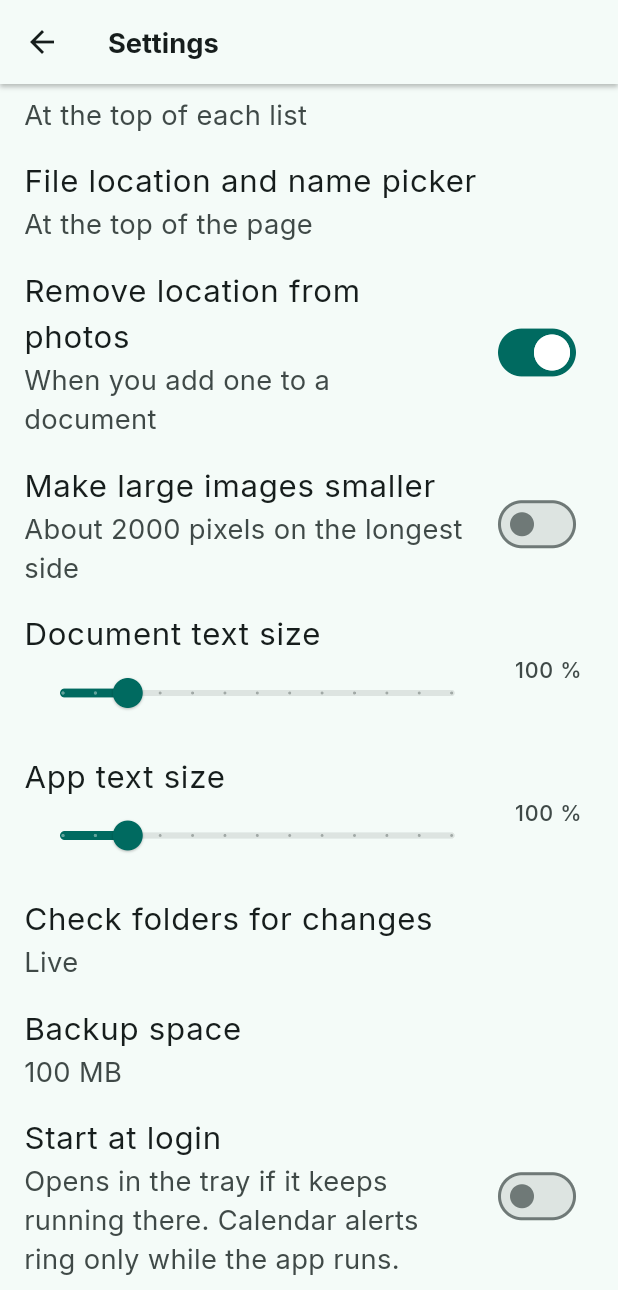
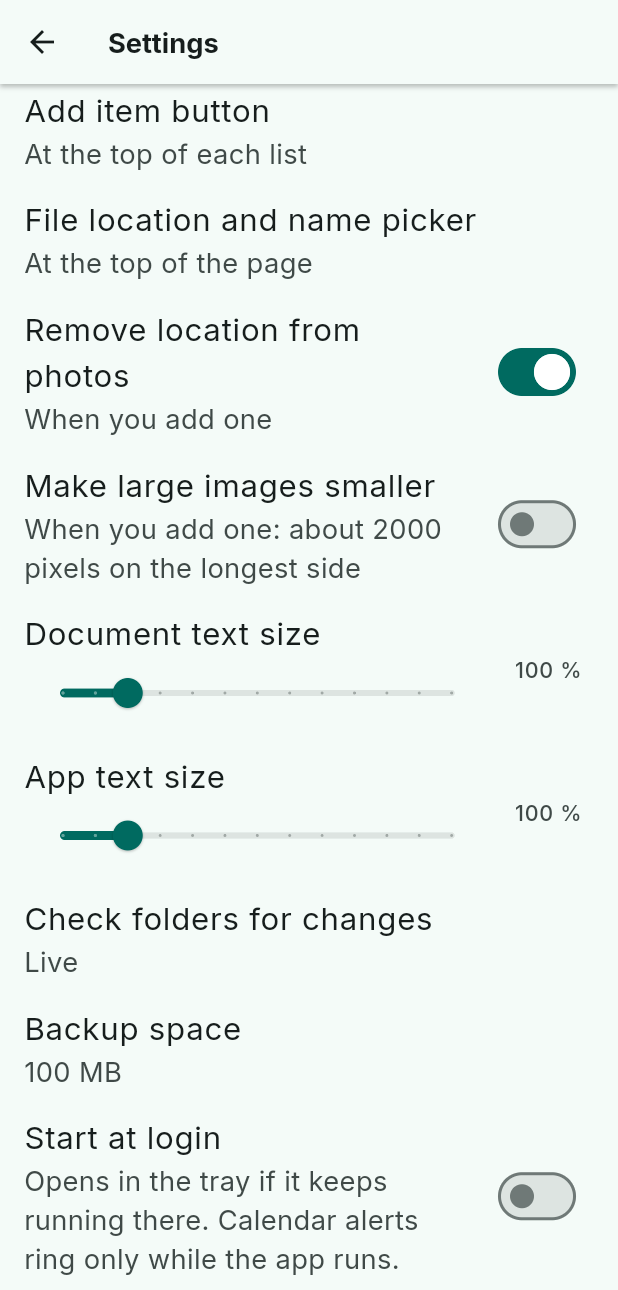
One rule for which files show; fresher image texts
Backups and backup pruning now ask the same rule as the folder listing,
so pictures kept for documents never show there. The image settings say
they apply to every picture you add. README, coding standards and known
limitations name images.

Changed region(s): [[0.0307, 0.062, 0.7686, 0.3411], [0.0307, 0.4031, 0.7379, 0.4651], [0.7994, 0.2481, 0.9531, 0.3101]]

diff --git a/core/lib/src/place/bounded_place.dart b/core/lib/src/place/bounded_place.dart
@@ -4,13 +4,12 @@ import '../changes/live_changes.dart';
 import '../storage/bounded_store.dart';
 import '../storage/closing_store.dart';
 import '../storage/file_store.dart';
-import '../storage/rel_path.dart';
+import 'file_bounds.dart';
 
 /// What the app may touch in one folder, its files and their changes,
-/// bounded alike by one [handles] rule, so no other file is listed,
-/// written, deleted or followed; and closed alike by [close]. Files the
-/// app keeps apart (e.g. the files its documents link) are reached only
-/// through [apart].
+/// bounded alike by one rule ([FileBounds.shows]), so no other file is
+/// listed, written, deleted or followed; and closed alike by [close].
+/// Files the app keeps apart are reached only through [apart].
 ///
 /// Sits between a plugin's raw access to the folder and the plugin's rules
 /// on top; see `RawFolder`.
@@ -18,19 +17,26 @@ final class BoundedPlace {
   factory BoundedPlace(
     FileStore files,
     LiveChanges? live, {
-    required bool Function(RelPath file) handles,
-    required bool Function(RelPath path) keptApart,
+    required FileBounds bounds,
     required Duration Function() checkEvery,
   }) {
     final gate = ClosingStore(files);
-    bool counts(RelPath file) => handles(file) && !keptApart(file);
     return BoundedPlace._(
       gate,
-      BoundedStore(gate, handles: counts, enters: (f) => !keptApart(f)),
-      BoundedStore(gate, handles: keptApart),
+      BoundedStore(
+        gate,
+        handles: bounds.shows,
+        enters: (folder) => !bounds.keptApart(folder),
+      ),
+      BoundedStore(gate, handles: bounds.keptApart),
       live == null
           ? null
-          : BoundedChanges(live, gate, counts: counts, checkEvery: checkEvery),
+          : BoundedChanges(
+              live,
+              gate,
+              counts: bounds.shows,
+              checkEvery: checkEvery,
+            ),
     );
   }
 
@@ -42,10 +48,8 @@ final class BoundedPlace {
   /// apart.
   final FileStore files;
 
-  /// The files kept apart, by the `keptApart` rule handed in from above
-  /// (true for a kept folder and all inside it): listed, created and
-  /// deleted only there, read like any file; never followed. Core never
-  /// knows what they are.
+  /// The files kept apart ([FileBounds.keptApart]): listed, created and
+  /// deleted only there, read like any file; never followed.
   final FileStore apart;
 
   /// See [BoundedChanges]; `null` where the folder can't be followed live.

diff --git a/folders/lib/src/open_folders/folder_services.dart b/folders/lib/src/open_folders/folder_services.dart
@@ -48,16 +48,15 @@ final class FolderServices {
 }
 
 /// The services of a folder on [raw], its plugin's raw access to it, whose
-/// files tell [reach] how each access went, bounded to the files the app
-/// [handles] and the marks, with the files [keptApart] reached on their
+/// files tell [reach] how each access went, bounded to the files [bounds]
+/// shows and the marks, with the files it keeps apart reached on their
 /// own. Each write, the plugin's own included, is told to [wrote], but
 /// those kept apart, which no screen shows. A folder that is gone is
 /// checked every [checkEvery] whether it is back.
 FolderServices folderServices(
   RawFolder raw, {
   required FolderReach reach,
-  required bool Function(RelPath file) handles,
-  required bool Function(RelPath path) keptApart,
+  required FileBounds bounds,
   required String backupsPath,
   required String deviceId,
   required Duration Function() checkEvery,
@@ -65,15 +64,18 @@ FolderServices folderServices(
 }) {
   // Below the bound: a write it refuses is never told.
   void told(Set<RelPath> paths) {
-    final shown = {...paths.where((path) => !keptApart(path))};
+    final shown = {...paths.where((path) => !bounds.keptApart(path))};
     if (shown.isNotEmpty) wrote(shown);
   }
 
   final bounded = BoundedPlace(
     WriteReportingStore(ReachReportingStore(raw.files, reach), told),
     raw.changes,
-    handles: (file) => handles(file) || FileMarks.files.includesFile(file),
-    keptApart: keptApart,
+    bounds: FileBounds(
+      handles: (file) =>
+          bounds.handles(file) || FileMarks.files.includesFile(file),
+      keptApart: bounds.keptApart,
+    ),
     checkEvery: checkEvery,
   );
   final open = raw.open(bounded);

diff --git a/app/test/images/document_images_hidden_test.dart b/app/test/images/document_images_hidden_test.dart
@@ -1,0 +1,43 @@
+import 'dart:io';
+
+import 'package:flutter_riverpod/flutter_riverpod.dart';
+import 'package:flutter_test/flutter_test.dart';
+import 'package:truce_editor/folders/open_folders_wiring.dart';
+import 'package:truce_test_support/truce_test_support.dart' show onePixelPng;
+
+import '../support.dart';
+
+/// Pictures added to documents live in the folder's own store; now that
+/// pictures show as files, they still never list as files of their own.
+void main() {
+  test("a document's pictures never list as image files", () async {
+    final dir = tempFolder();
+    File('${dir.path}/note.md').writeAsStringSync('![](document-images/x)\n');
+    File('${dir.path}/photo.png').writeAsBytesSync(onePixelPng);
+    Directory('${dir.path}/document-images').createSync();
+    File('${dir.path}/document-images/img-0123456789abcdef.png')
+        .writeAsBytesSync(onePixelPng);
+    final services = servicesFor(folderAt(dir));
+
+    final scan = (await services.scanner.scan()).value;
+
+    expect(
+      {for (final file in scan.files) file.path.value},
+      {'note.md', 'photo.png'},
+    );
+    expect(scan.subfolders, isNot(contains(path('document-images'))));
+  });
+
+  test("a document's pictures are not shown files, so stay out of Backups "
+      'and their space', () {
+    final container = ProviderContainer();
+    addTearDown(container.dispose);
+    final bounds = container.read(fileBoundsProvider);
+
+    expect(bounds.shows(path('photo.png')), isTrue);
+    expect(
+      bounds.shows(path('document-images/img-0123456789abcdef.png')),
+      isFalse,
+    );
+  });
+}

diff --git a/app/lib/folders/open_folders_wiring.dart b/app/lib/folders/open_folders_wiring.dart
@@ -18,14 +18,24 @@ final appWritesProvider = Provider<AppWrites>((ref) {
   return writes;
 });
 
+/// Which files of each folder the app touches and shows: the types it
+/// handles, but not the files it keeps apart. The one rule for listing,
+/// following and backups.
+final fileBoundsProvider = Provider<FileBounds>((ref) {
+  final detector = ref.watch(fileTypeDetectorProvider);
+  return FileBounds(
+    handles: (file) => detector.detect(file) != null,
+    keptApart: ref.watch(keptApartProvider),
+  );
+});
+
 /// The open folders, wired: they follow the folder list owner. Every
 /// write through their services is told to [appWritesProvider]. A folder
 /// that is gone is checked again at the refresh setting's interval, read
 /// at each wait.
 final openFoldersProvider = Provider<OpenFolders>((ref) {
   final plugins = ref.watch(folderPluginsProvider);
-  final detector = ref.watch(fileTypeDetectorProvider);
-  final keptApart = ref.watch(keptApartProvider);
+  final bounds = ref.watch(fileBoundsProvider);
   final storage = ref.watch(appStorageProvider);
   final deviceId = ref.watch(deviceIdProvider);
   final writes = ref.watch(appWritesProvider);
@@ -36,8 +46,7 @@ final openFoldersProvider = Provider<OpenFolders>((ref) {
     build: (folder, raw, reach) => folderServices(
       raw,
       reach: reach,
-      handles: (file) => detector.detect(file) != null,
-      keptApart: keptApart,
+      bounds: bounds,
       backupsPath: storage.backupsPath(folder.id),
       deviceId: deviceId,
       checkEvery: checkEvery,

diff --git a/app/lib/images/ui/image_setting_tiles.dart b/app/lib/images/ui/image_setting_tiles.dart
@@ -4,8 +4,9 @@ import 'package:truce_images/truce_images.dart';
 
 import '../../settings/device_settings_controller.dart';
 
-/// Settings rows for pictures added to documents: take out where a photo
-/// was taken, and make large ones smaller.
+/// Settings rows for pictures the user adds, to a document or as a file
+/// of their own: take out where a photo was taken, and make large ones
+/// smaller.
 class ImageSettingTiles extends ConsumerWidget {
   const ImageSettingTiles({super.key});
 
@@ -22,7 +23,7 @@ class ImageSettingTiles extends ConsumerWidget {
       children: [
         SwitchListTile(
           title: const Text('Remove location from photos'),
-          subtitle: const Text('When you add one to a document'),
+          subtitle: const Text('When you add one'),
           value: images.removeLocation,
           onChanged: (remove) =>
               change((images) => images.copyWith(removeLocation: remove)),
@@ -30,7 +31,8 @@ class ImageSettingTiles extends ConsumerWidget {
         SwitchListTile(
           title: const Text('Make large images smaller'),
           subtitle: const Text(
-            'About ${ImageSettings.longestSide} pixels on the longest side',
+            'When you add one: about ${ImageSettings.longestSide} pixels on '
+            'the longest side',
           ),
           value: images.makeSmaller,
           onChanged: (smaller) =>

diff --git a/app/lib/backups/all_backups.dart b/app/lib/backups/all_backups.dart
@@ -2,7 +2,6 @@ import 'package:flutter_riverpod/flutter_riverpod.dart';
 import 'package:truce_files/truce_files.dart';
 import 'package:truce_folders/truce_folders.dart';
 
-import '../file_types/file_types.dart';
 import '../folders/folders_controller.dart';
 import '../folders/open_folders_wiring.dart';
 
@@ -14,10 +13,10 @@ final allBackupsProvider = FutureProvider.autoDispose<List<FolderBackup>>((
   // Built again as the list changes; none if it can't be read.
   ref.watch(folderListStateProvider);
   final open = ref.watch(openFoldersProvider);
-  final detector = ref.watch(fileTypeDetectorProvider);
+  final bounds = ref.watch(fileBoundsProvider);
   return backupsShown(
     await settledFolders(ref.read(folderListOwnerProvider)),
     (folder) => open.servicesOf(folder.id).backups,
-    shows: (file) => detector.detect(file) != null,
+    shows: bounds.shows,
   );
 });

diff --git a/core/test/place/bounded_place_test.dart b/core/test/place/bounded_place_test.dart
@@ -16,8 +16,10 @@ void main() {
   BoundedPlace bound(LiveChanges? changes) => BoundedPlace(
     files,
     changes,
-    handles: (file) => file.name.endsWith('.md'),
-    keptApart: (_) => false,
+    bounds: FileBounds(
+      handles: (file) => file.name.endsWith('.md'),
+      keptApart: (_) => false,
+    ),
     checkEvery: () => const Duration(milliseconds: 5),
   );
 
@@ -48,8 +50,10 @@ void main() {
     final place = BoundedPlace(
       files,
       live,
-      handles: (file) => file.name.endsWith('.md'),
-      keptApart: (path) => path.isAtOrInside(RelPath.parse('kept')!),
+      bounds: FileBounds(
+        handles: (file) => file.name.endsWith('.md'),
+        keptApart: (path) => path.isAtOrInside(RelPath.parse('kept')!),
+      ),
       checkEvery: () => const Duration(milliseconds: 5),
     );
     final hints = <ChangeHint>[];

diff --git a/core/lib/src/place/file_bounds.dart b/core/lib/src/place/file_bounds.dart
@@ -1,0 +1,16 @@
+import '../storage/rel_path.dart';
+
+/// Which files of a folder the app touches: those it [handles], except
+/// those it keeps apart ([keptApart]: true for a kept folder and all
+/// inside it, e.g. the files its documents link), which it reaches only
+/// on their own. Core never knows what either is.
+final class FileBounds {
+  const FileBounds({required this.handles, required this.keptApart});
+
+  final bool Function(RelPath file) handles;
+  final bool Function(RelPath path) keptApart;
+
+  /// Whether [file] is one of the folder's files the app shows as a file:
+  /// listed, followed, and backed up as one.
+  bool shows(RelPath file) => handles(file) && !keptApart(file);
+}

diff --git a/app/lib/backups/backup_pruning.dart b/app/lib/backups/backup_pruning.dart
@@ -1,16 +1,15 @@
 import 'package:flutter_riverpod/flutter_riverpod.dart';
 import 'package:truce_files/truce_files.dart';
 
-import '../file_types/file_types.dart';
+import '../folders/open_folders_wiring.dart';
 import '../platform/app_activity.dart';
 import '../settings/device_settings_controller.dart';
 import '../storage/app_storage.dart';
 
 final _pruningProvider = Provider<BackupPruning>((ref) {
-  final detector = ref.watch(fileTypeDetectorProvider);
   return BackupPruning(
     ref.watch(appStorageProvider).backupsRootPath,
-    shows: (file) => detector.detect(file) != null,
+    shows: ref.watch(fileBoundsProvider).shows,
   );
 });
 

diff --git a/core/test/place/file_bounds_test.dart b/core/test/place/file_bounds_test.dart
@@ -1,0 +1,18 @@
+import 'package:test/test.dart';
+import 'package:truce_core/truce_core.dart';
+
+void main() {
+  final bounds = FileBounds(
+    handles: (file) => file.name.endsWith('.png'),
+    keptApart: (path) => path.isAtOrInside(RelPath.parse('kept')!),
+  );
+
+  test('shows the files it handles', () {
+    expect(bounds.shows(RelPath.parse('a.png')!), isTrue);
+    expect(bounds.shows(RelPath.parse('a.pdf')!), isFalse);
+  });
+
+  test('never shows a file kept apart, though it handles it', () {
+    expect(bounds.shows(RelPath.parse('kept/a.png')!), isFalse);
+  });
+}

diff --git a/types/markdown/markdown_images/test/support.dart b/types/markdown/markdown_images/test/support.dart
@@ -11,9 +11,11 @@ final class ImageFolder {
     services = folderServices(
       raw,
       reach: folderReach(raw.files),
-      handles: (file) =>
-          file.name.endsWith('.md') || file.name.endsWith('.txt'),
-      keptApart: ImageNames.isKept,
+      bounds: FileBounds(
+        handles: (file) =>
+            file.name.endsWith('.md') || file.name.endsWith('.txt'),
+        keptApart: ImageNames.isKept,
+      ),
       checkEvery: () => const Duration(seconds: 1),
       backupsPath: tempFolder().path,
       deviceId: '0123456789abcdef',

diff --git a/types/document_editor/test/images/images_at_place_test.dart b/types/document_editor/test/images/images_at_place_test.dart
@@ -18,8 +18,10 @@ const _name = 'img-0123456789abcdef.png';
 FolderServices _services(FakeFolder raw) => folderServices(
   raw,
   reach: folderReach(raw.files),
-  handles: (file) => file.name.endsWith('.md'),
-  keptApart: ImageNames.isKept,
+  bounds: FileBounds(
+    handles: (file) => file.name.endsWith('.md'),
+    keptApart: ImageNames.isKept,
+  ),
   checkEvery: () => const Duration(seconds: 1),
   backupsPath: tempFolder().path,
   deviceId: '0123456789abcdef',
